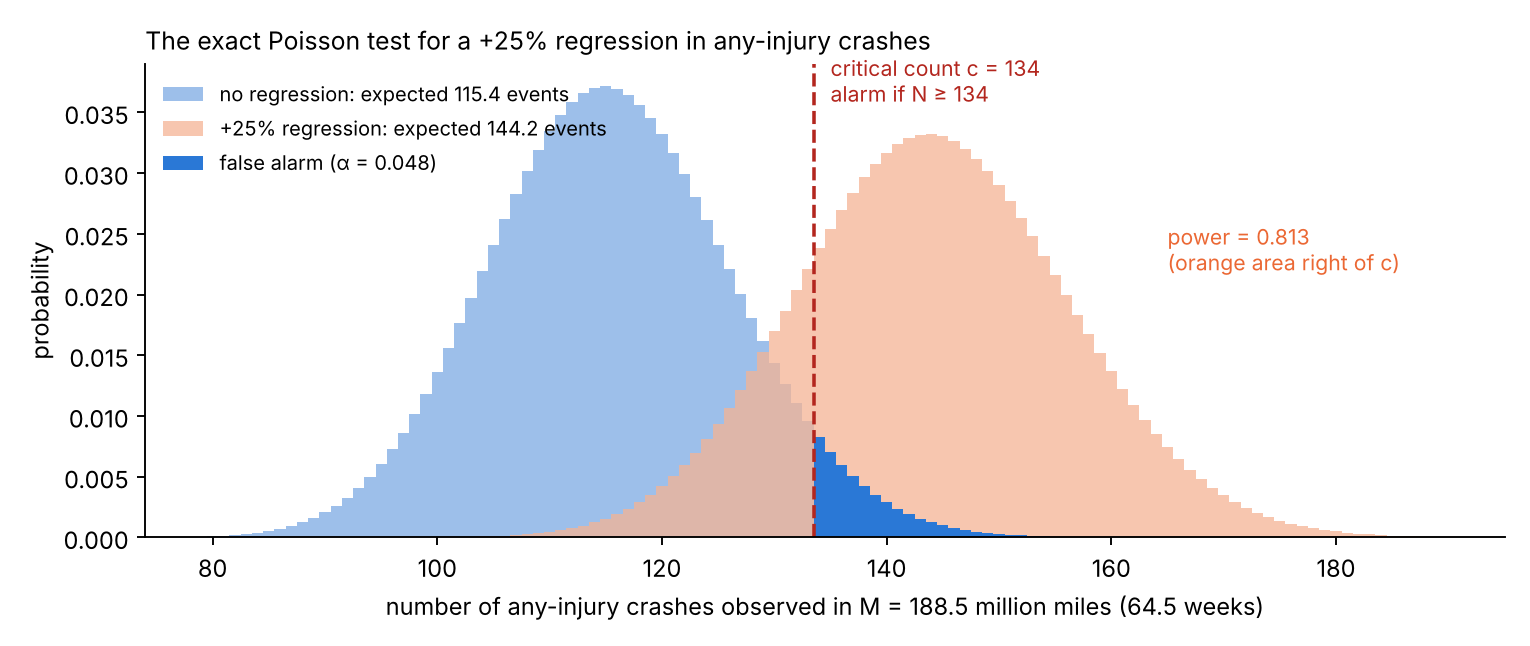
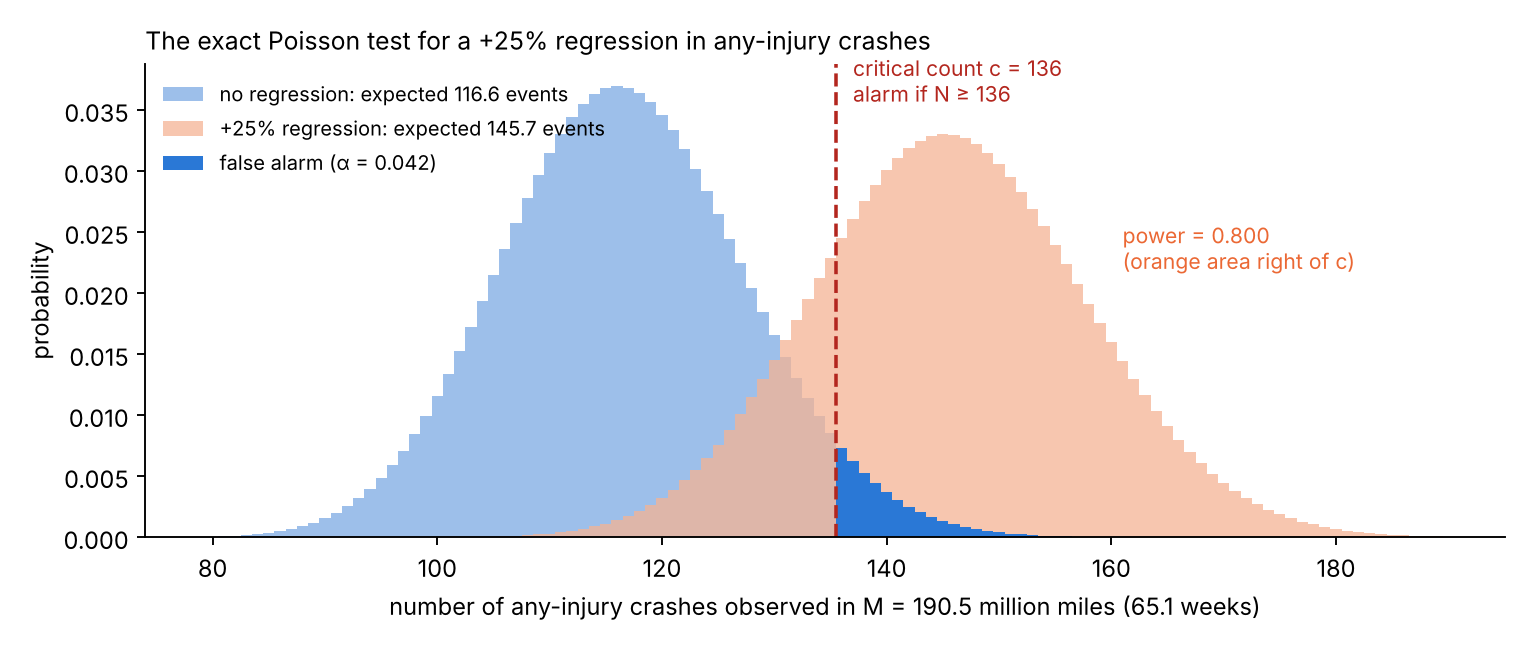
updated results

diff --git a/results/release_health_report.html b/results/release_health_report.html
@@ -11,7 +11,7 @@ td,th{border-bottom:1px solid #DDE1E6;padding:4px 6px;text-align:left} th{backgr
 <p class='note'>With five metrics each tuned to one false alarm per five years, the chance of at least one false alarm somewhere in two years is 85%: every alarm needs a fast, cheap triage step.</p>
 <h2>2. What field data can and cannot catch</h2>
 <p>Weeks of whole-fleet driving (2.9M miles/week) to detect a +25% regression with 80% power:</p>
-<table><tr><th>Metric</th><th>Weeks</th></tr><tr><td>All reported crashes</td><td>5.5</td></tr><tr><td>Any-injury crashes</td><td>64.5</td></tr><tr><td>Airbag deployment</td><td>150.4</td></tr><tr><td>Serious injury or worse</td><td>1,728.4</td></tr><tr><td>Leading indicator (assumed)</td><td>0.4</td></tr></table>
+<table><tr><th>Metric</th><th>Weeks</th></tr><tr><td>All reported crashes</td><td>5.6</td></tr><tr><td>Any-injury crashes</td><td>65.1</td></tr><tr><td>Airbag deployment</td><td>149.9</td></tr><tr><td>Serious injury or worse</td><td>1,733.1</td></tr><tr><td>Leading indicator (assumed)</td><td>0.4</td></tr></table>
 <p>Serious-injury regressions cannot be caught from field outcomes on any release timescale: release gating must rely on scenario testing and leading indicators.</p>
 <h2>3. Top data-based risks (injury crashes per 100M miles, 90% interval)</h2>
 <table><tr><th>ID</th><th>Hazard</th><th>Rate</th><th>Treatment status</th></tr><tr><td>H1</td><td>ADS vehicle struck while stationary (stopped or parked)</td><td>35.4 (29.8–41.7)</td><td>Monitor</td></tr><tr><td>H2</td><td>Collision while the ADS vehicle is moving</td><td>25.9 (21.1–31.3)</td><td>Monitor</td></tr><tr><td>H3</td><td>Conflict with cyclist pedestrian or scooter rider</td><td>5.6 (3.6–8.3)</td><td>Reduce</td></tr></table>
